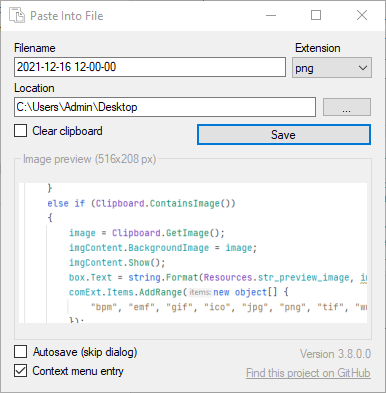
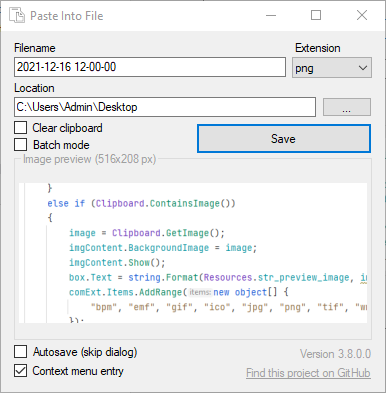
Add continuous batch mode

Changed region(s): [[0.0311, 0.3053, 0.2798, 0.3969], [0.4974, 0.3359, 0.9637, 0.3969]]

diff --git a/PasteIntoFile/Dialog.cs b/PasteIntoFile/Dialog.cs
@@ -17,7 +17,10 @@ namespace PasteIntoFile
         private string text;
         private Image image;
         private readonly SharpClipboard clipboard = new SharpClipboard();
-        
+        private bool continuousMode = false;
+        private int saveCount = 0;
+        private DateTime clipboardTimestamp;
+
         public Dialog(string location, string filename = null, bool forceShowDialog = false)
         {
             // always show GUI if shift pressed during start
@@ -29,7 +32,7 @@ namespace PasteIntoFile
             foreach (Control element in GetAllChild(this))
             {
                 // ReSharper disable once UnusedVariable (to convince IDE that these resource strings are actually used)
-                string[] usedResourceStrings = { Resources.str_filename, Resources.str_extension, Resources.str_location, Resources.str_clear_clipboard, Resources.str_save, Resources.str_preview, Resources.str_main_info, Resources.str_autosave_checkbox, Resources.str_contextentry_checkbox };
+                string[] usedResourceStrings = { Resources.str_filename, Resources.str_extension, Resources.str_location, Resources.str_clear_clipboard, Resources.str_save, Resources.str_preview, Resources.str_main_info, Resources.str_autosave_checkbox, Resources.str_contextentry_checkbox, Resources.str_continuous_mode };
                 element.Text = Resources.ResourceManager.GetString(element.Text) ?? element.Text;
             }
             
@@ -51,18 +54,19 @@ namespace PasteIntoFile
 
             }
 
-            //
-
-            var filenameFormat = string.IsNullOrWhiteSpace(Settings.Default.filenameTemplate) ? DefaultFilenameFormat : Settings.Default.filenameTemplate;
-            txtFilename.Text = DateTime.Now.ToString(filenameFormat);
-            txtCurrentLocation.Text = Path.GetFullPath(location);
-            chkClrClipboard.Checked = Settings.Default.clrClipboard;
-            chkAutoSave.Checked = Settings.Default.autoSave;
-            chkContextEntry.Checked = Program.IsAppRegistered();
-            
+            // read clipboard and populate GUI
 
             if (!readClipboard())
                 Environment.Exit(1);
+            
+            updateFilename();
+            txtCurrentLocation.Text = Path.GetFullPath(location);
+            chkClrClipboard.Checked = Settings.Default.clrClipboard;
+            chkContinuousMode.Checked = continuousMode;
+            btnSave.Enabled = txtFilename.Enabled = !continuousMode; 
+            chkAutoSave.Checked = Settings.Default.autoSave;
+            chkContextEntry.Checked = Program.IsAppRegistered();
+            
 
             // second parameter can overwrite filename and -type
             if (filename != null)
@@ -109,8 +113,16 @@ namespace PasteIntoFile
             
         }
 
+        private void updateFilename()
+        {
+            var filenameFormat = string.IsNullOrWhiteSpace(Settings.Default.filenameTemplate) ? DefaultFilenameFormat : Settings.Default.filenameTemplate;
+            txtFilename.Text = clipboardTimestamp.ToString(filenameFormat);
+        }
+        
         private bool readClipboard()
         {
+            clipboardTimestamp = DateTime.Now;
+                
             // reset GUI elements
             text = null;
             txtContent.Hide();
@@ -146,16 +158,31 @@ namespace PasteIntoFile
                 return true;
             }
             
-            MessageBox.Show(Resources.str_noclip_text, Resources.str_main_window_title, MessageBoxButtons.OK);
+            MessageBox.Show(Resources.str_noclip_text, Resources.str_main_window_title, MessageBoxButtons.OK, MessageBoxIcon.Warning);
             return false;
             
         }
         
         private void ClipboardChanged(Object sender, SharpClipboard.ClipboardChangedEventArgs e)
         {
+            var previousClipboardTimestamp = clipboardTimestamp;
             readClipboard();
+
+            // ignore duplicate clipboard content updates within 100ms
+            if (continuousMode && (clipboardTimestamp - previousClipboardTimestamp).TotalMilliseconds > 100)
+            {
+                updateFilename();
+                save();
+                updateSavebutton();
+            }
         }
 
+        private void updateSavebutton()
+        {
+            btnSave.Enabled = txtFilename.Enabled = !continuousMode;
+            btnSave.Text = continuousMode ? string.Format(Resources.str_n_saved, saveCount) : Resources.str_save;
+        }
+        
         private void btnSave_Click(object sender, EventArgs e)
         {
             if (save() != null)
@@ -166,32 +193,31 @@ namespace PasteIntoFile
         
         string save()
         {
-            string dirname = Path.GetFullPath(txtCurrentLocation.Text);
-            string ext = comExt.Text.ToLowerInvariant();
-            string filename = txtFilename.Text;
-            if (!filename.EndsWith("." + ext))
-                filename += "." + ext;
-            string file = Path.Combine(dirname, filename);
-            
-            // check if file exists
-            if (File.Exists(file))
-            {
-                var result = MessageBox.Show(string.Format(Resources.str_file_exists, file), Resources.str_main_window_title,
-                    MessageBoxButtons.YesNo, MessageBoxIcon.Warning);
-                if (result != DialogResult.Yes)
+            try {
+                string dirname = Path.GetFullPath(txtCurrentLocation.Text);
+                string ext = comExt.Text.ToLowerInvariant();
+                string filename = txtFilename.Text;
+                if (!filename.EndsWith("." + ext))
+                    filename += "." + ext;
+                string file = Path.Combine(dirname, filename);
+                
+                // check if file exists
+                if (File.Exists(file))
                 {
+                    var result = MessageBox.Show(string.Format(Resources.str_file_exists, file), Resources.str_main_window_title,
+                        MessageBoxButtons.YesNo, MessageBoxIcon.Warning);
+                    if (result != DialogResult.Yes)
+                    {
+                        return null;
+                    }
+                } else if (Directory.Exists(file))
+                {
+                    MessageBox.Show(string.Format(Resources.str_file_exists_directory, file), Resources.str_main_window_title,
+                        MessageBoxButtons.OK, MessageBoxIcon.Error);
                     return null;
                 }
-            } else if (Directory.Exists(file))
-            {
-                MessageBox.Show(string.Format(Resources.str_file_exists_directory, file), Resources.str_main_window_title,
-                    MessageBoxButtons.OK, MessageBoxIcon.Error);
-                return null;
-            }
             
             
-            try
-            {
                 // create folders if required
                 Directory.CreateDirectory(dirname);
 
@@ -237,19 +263,24 @@ namespace PasteIntoFile
 
                     image.Save(file, format);
                 }
-
+                else
+                {
+                    return null;
+                }
+                
                 if (Settings.Default.clrClipboard)
                 {
                     Clipboard.Clear();
                 }
-                
+
+                saveCount++;
                 return file;
 
             }
             catch (UnauthorizedAccessException ex)
             {
                 MessageBox.Show(ex.Message + "\n" + Resources.str_message_run_as_admin, Resources.str_main_window_title, MessageBoxButtons.OK, MessageBoxIcon.Error);
-                Program.RestartAppElevated(dirname);
+                Program.RestartAppElevated(txtCurrentLocation.Text);
             }
             catch (Exception ex)
             {
@@ -287,6 +318,17 @@ namespace PasteIntoFile
         {
             Settings.Default.clrClipboard = chkClrClipboard.Checked;
             Settings.Default.Save();
+        }
+
+        private void chkContinuousMode_CheckedChanged(object sender, EventArgs e)
+        {
+            continuousMode = chkContinuousMode.Checked;
+            
+            if (continuousMode) // save current clipboard now
+                save();
+            
+            updateSavebutton();
+                
         }
 
         private void ChkAutoSave_CheckedChanged(object sender, EventArgs e)

diff --git a/PasteIntoFile/Dialog.Designer.cs b/PasteIntoFile/Dialog.Designer.cs
@@ -47,11 +47,11 @@ namespace PasteIntoFile
             this.chkClrClipboard = new System.Windows.Forms.CheckBox();
             this.chkAutoSave = new System.Windows.Forms.CheckBox();
             this.box = new System.Windows.Forms.GroupBox();
-            this.panel1 = new System.Windows.Forms.Panel();
             this.tableLayoutPanel1 = new System.Windows.Forms.TableLayoutPanel();
             this.tableLayoutPanel3 = new System.Windows.Forms.TableLayoutPanel();
             this.tableLayoutPanel4 = new System.Windows.Forms.TableLayoutPanel();
             this.tableLayoutPanel2 = new System.Windows.Forms.TableLayoutPanel();
+            this.chkContinuousMode = new System.Windows.Forms.CheckBox();
             this.tableLayoutPanel5 = new System.Windows.Forms.TableLayoutPanel();
             this.chkContextEntry = new System.Windows.Forms.CheckBox();
             ((System.ComponentModel.ISupportInitialize)(this.imgContent)).BeginInit();
@@ -69,7 +69,7 @@ namespace PasteIntoFile
             this.imgContent.Dock = System.Windows.Forms.DockStyle.Fill;
             this.imgContent.Location = new System.Drawing.Point(5, 18);
             this.imgContent.Name = "imgContent";
-            this.imgContent.Size = new System.Drawing.Size(348, 166);
+            this.imgContent.Size = new System.Drawing.Size(348, 158);
             this.imgContent.TabIndex = 13;
             this.imgContent.TabStop = false;
             this.imgContent.Visible = false;
@@ -82,7 +82,7 @@ namespace PasteIntoFile
             this.txtContent.Location = new System.Drawing.Point(5, 18);
             this.txtContent.Name = "txtContent";
             this.txtContent.ReadOnly = true;
-            this.txtContent.Size = new System.Drawing.Size(348, 166);
+            this.txtContent.Size = new System.Drawing.Size(348, 158);
             this.txtContent.TabIndex = 0;
             this.txtContent.TabStop = false;
             this.txtContent.Text = "";
@@ -135,7 +135,8 @@ namespace PasteIntoFile
             this.btnSave.Dock = System.Windows.Forms.DockStyle.Fill;
             this.btnSave.Location = new System.Drawing.Point(185, 3);
             this.btnSave.Name = "btnSave";
-            this.btnSave.Size = new System.Drawing.Size(176, 23);
+            this.tableLayoutPanel2.SetRowSpan(this.btnSave, 2);
+            this.btnSave.Size = new System.Drawing.Size(176, 31);
             this.btnSave.TabIndex = 4;
             this.btnSave.Text = "str_save";
             this.btnSave.UseVisualStyleBackColor = true;
@@ -200,7 +201,8 @@ namespace PasteIntoFile
             // chkClrClipboard
             // 
             this.chkClrClipboard.AutoSize = true;
-            this.chkClrClipboard.Location = new System.Drawing.Point(3, 3);
+            this.chkClrClipboard.Location = new System.Drawing.Point(3, 0);
+            this.chkClrClipboard.Margin = new System.Windows.Forms.Padding(3, 0, 3, 0);
             this.chkClrClipboard.Name = "chkClrClipboard";
             this.chkClrClipboard.Size = new System.Drawing.Size(115, 17);
             this.chkClrClipboard.TabIndex = 6;
@@ -227,23 +229,13 @@ namespace PasteIntoFile
             this.box.Controls.Add(this.imgContent);
             this.box.Dock = System.Windows.Forms.DockStyle.Fill;
             this.box.ForeColor = System.Drawing.SystemColors.ControlDark;
-            this.box.Location = new System.Drawing.Point(13, 121);
+            this.box.Location = new System.Drawing.Point(13, 129);
             this.box.Name = "box";
             this.box.Padding = new System.Windows.Forms.Padding(5);
-            this.box.Size = new System.Drawing.Size(358, 189);
+            this.box.Size = new System.Drawing.Size(358, 181);
             this.box.TabIndex = 5;
             this.box.TabStop = false;
             this.box.Text = "str_preview";
-            // 
-            // panel1
-            // 
-            this.panel1.AutoSize = true;
-            this.panel1.AutoSizeMode = System.Windows.Forms.AutoSizeMode.GrowAndShrink;
-            this.panel1.Location = new System.Drawing.Point(30, 116);
-            this.panel1.Name = "panel1";
-            this.panel1.Padding = new System.Windows.Forms.Padding(10);
-            this.panel1.Size = new System.Drawing.Size(20, 20);
-            this.panel1.TabIndex = 9;
             // 
             // tableLayoutPanel1
             // 
@@ -319,14 +311,28 @@ namespace PasteIntoFile
             this.tableLayoutPanel2.ColumnStyles.Add(new System.Windows.Forms.ColumnStyle(System.Windows.Forms.SizeType.Percent, 50F));
             this.tableLayoutPanel2.Controls.Add(this.btnSave, 1, 0);
             this.tableLayoutPanel2.Controls.Add(this.chkClrClipboard, 0, 0);
+            this.tableLayoutPanel2.Controls.Add(this.chkContinuousMode, 0, 1);
             this.tableLayoutPanel2.Dock = System.Windows.Forms.DockStyle.Fill;
             this.tableLayoutPanel2.Location = new System.Drawing.Point(10, 89);
             this.tableLayoutPanel2.Margin = new System.Windows.Forms.Padding(0);
             this.tableLayoutPanel2.Name = "tableLayoutPanel2";
-            this.tableLayoutPanel2.RowCount = 1;
+            this.tableLayoutPanel2.RowCount = 2;
             this.tableLayoutPanel2.RowStyles.Add(new System.Windows.Forms.RowStyle());
-            this.tableLayoutPanel2.Size = new System.Drawing.Size(364, 29);
+            this.tableLayoutPanel2.RowStyles.Add(new System.Windows.Forms.RowStyle(System.Windows.Forms.SizeType.Absolute, 20F));
+            this.tableLayoutPanel2.Size = new System.Drawing.Size(364, 37);
             this.tableLayoutPanel2.TabIndex = 12;
+            // 
+            // chkContinuousMode
+            // 
+            this.chkContinuousMode.AutoSize = true;
+            this.chkContinuousMode.Location = new System.Drawing.Point(3, 17);
+            this.chkContinuousMode.Margin = new System.Windows.Forms.Padding(3, 0, 3, 0);
+            this.chkContinuousMode.Name = "chkContinuousMode";
+            this.chkContinuousMode.Size = new System.Drawing.Size(127, 17);
+            this.chkContinuousMode.TabIndex = 6;
+            this.chkContinuousMode.Text = "str_continuous_mode";
+            this.chkContinuousMode.UseVisualStyleBackColor = true;
+            this.chkContinuousMode.CheckedChanged += new System.EventHandler(this.chkContinuousMode_CheckedChanged);
             // 
             // tableLayoutPanel5
             // 
@@ -367,7 +373,6 @@ namespace PasteIntoFile
             this.AutoScaleMode = System.Windows.Forms.AutoScaleMode.Dpi;
             this.ClientSize = new System.Drawing.Size(384, 361);
             this.Controls.Add(this.tableLayoutPanel1);
-            this.Controls.Add(this.panel1);
             this.KeyPreview = true;
             this.MinimumSize = new System.Drawing.Size(400, 300);
             this.Name = "Dialog";
@@ -389,10 +394,8 @@ namespace PasteIntoFile
             this.PerformLayout();
         }
 
+        private System.Windows.Forms.CheckBox chkContinuousMode;
         private System.Windows.Forms.CheckBox chkContextEntry;
-
-        #endregion
-
         private System.Windows.Forms.PictureBox imgContent;
         private System.Windows.Forms.RichTextBox txtContent;
         private System.Windows.Forms.Label lblFileName;
@@ -408,12 +411,13 @@ namespace PasteIntoFile
         private System.Windows.Forms.CheckBox chkClrClipboard;
         private System.Windows.Forms.CheckBox chkAutoSave;
         private System.Windows.Forms.GroupBox box;
-        private System.Windows.Forms.Panel panel1;
         private System.Windows.Forms.TableLayoutPanel tableLayoutPanel5;
         private System.Windows.Forms.TableLayoutPanel tableLayoutPanel2;
         private System.Windows.Forms.TableLayoutPanel tableLayoutPanel4;
         private System.Windows.Forms.TableLayoutPanel tableLayoutPanel3;
         private System.Windows.Forms.TableLayoutPanel tableLayoutPanel1;
+
+        #endregion
 
     }
 }

diff --git a/PasteIntoFile/Properties/Resources.Designer.cs b/PasteIntoFile/Properties/Resources.Designer.cs
@@ -134,6 +134,15 @@ namespace PasteIntoFile.Properties {
         }
         
         /// <summary>
+        ///   Looks up a localized string similar to Batch mode.
+        /// </summary>
+        internal static string str_continuous_mode {
+            get {
+                return ResourceManager.GetString("str_continuous_mode", resourceCulture);
+            }
+        }
+        
+        /// <summary>
         ///   Looks up a localized string similar to Extension.
         /// </summary>
         internal static string str_extension {
@@ -239,6 +248,15 @@ namespace PasteIntoFile.Properties {
         internal static string str_message_unregister_context_menu_success {
             get {
                 return ResourceManager.GetString("str_message_unregister_context_menu_success", resourceCulture);
+            }
+        }
+        
+        /// <summary>
+        ///   Looks up a localized string similar to {0} saved.
+        /// </summary>
+        internal static string str_n_saved {
+            get {
+                return ResourceManager.GetString("str_n_saved", resourceCulture);
             }
         }
         

diff --git a/README.md b/README.md
@@ -18,6 +18,7 @@ _See the [contributors page](https://github.com/eltos/PasteIntoFile/graphs/contr
 + Supports text, images and url links (with preview).
 + Resizeable GUI to adjust filename, filetype and path
 + Optional autosave mode (only shows dialog when holding SHIFT)
++ Optional batch mode (monitors clipboard and saves on change)
 + Optional clearing of clipboard after save
 + First launch wizard
 + Support for Windows 10 dark theme
